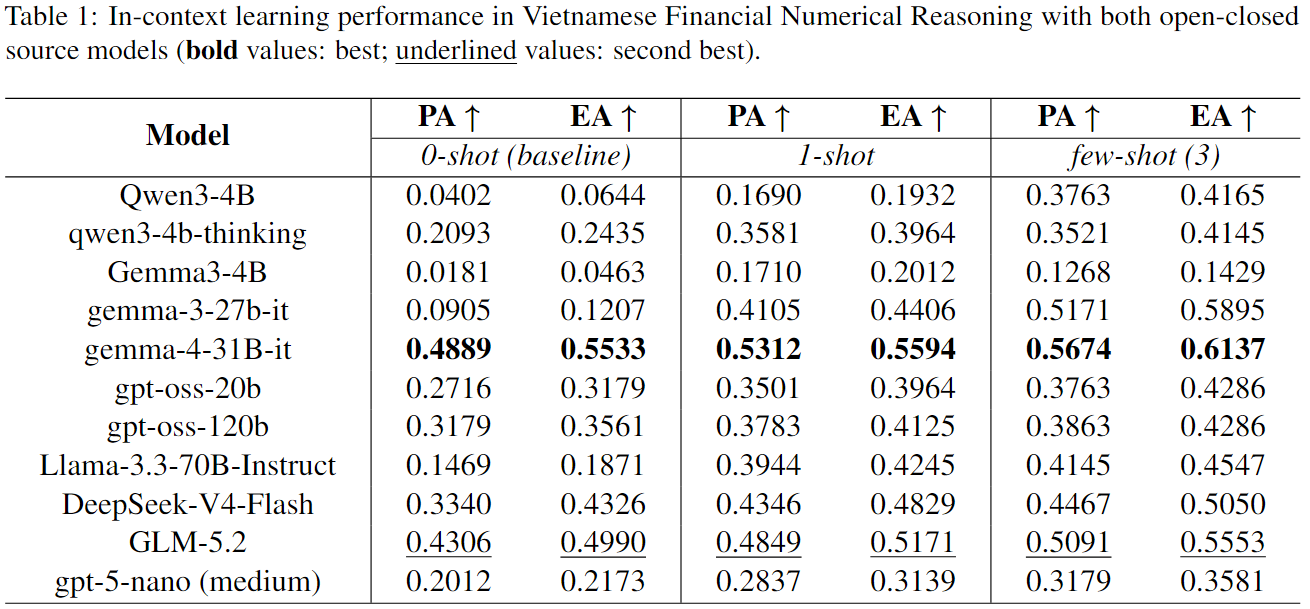
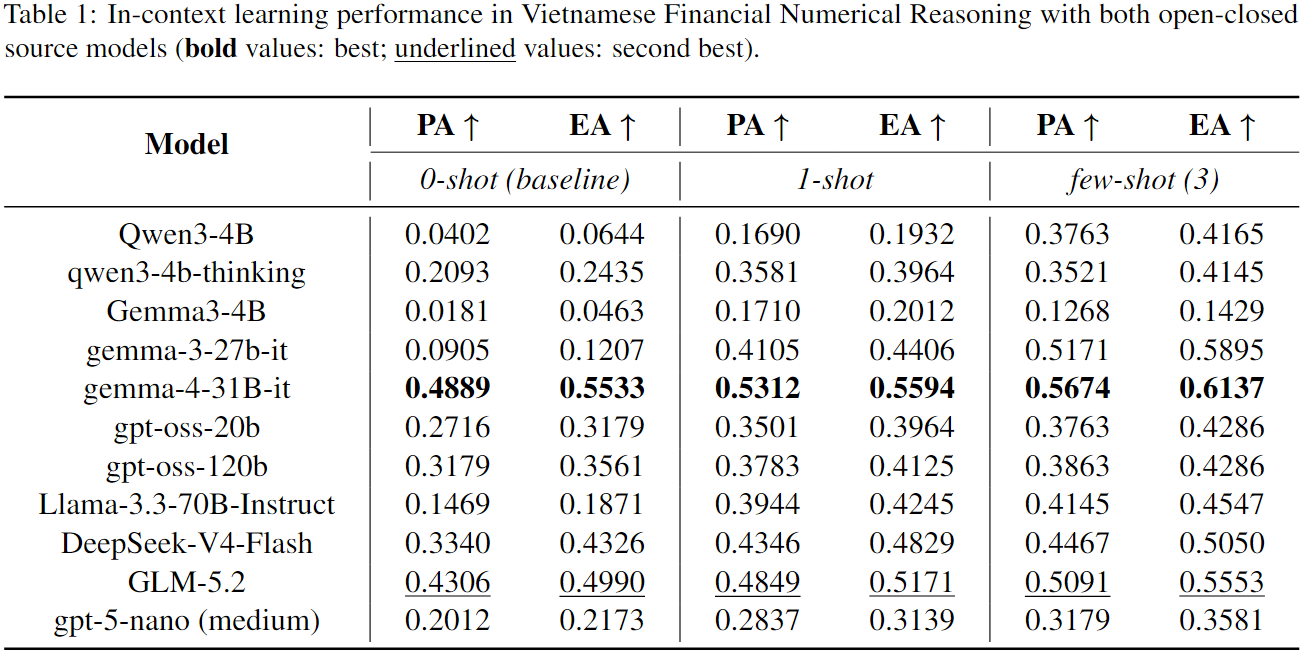
Update results images and resize in README
Refreshed img/in-context-learning.png and img/sft.png with updated LaTeX
table renders, and adjusted the display width in README.md.

Changed region(s): [[0.0, 0.0, 1.0, 0.9984], [0.7657, 0.8112, 0.8576, 0.8424]]

diff --git a/README.md b/README.md
@@ -41,12 +41,12 @@ distillation variants used across the SFT experiments below — **see
 file-by-file breakdown** (sample counts, distillation method, language,
 filter). Quick orientation:
 
-| File | Samples | Notes |
-|---|---|---|
-| `train.json` | 2,993 | gold `program` + `exe_ans`, no reasoning trace |
-| `valid.json` | 584 | gold `program` + `exe_ans`, no reasoning trace |
-| `test.json` | 497 | public test set, gold provided — **fixed evaluation set for every result below** |
-| `private_test.json` | 1,625 | **no gold** — held out for leaderboard scoring |
+| File                                     | Samples   | Notes                                                                                              |
+| ---------------------------------------- | --------- | -------------------------------------------------------------------------------------------------- |
+| `train.json`                             | 2,993     | gold `program` + `exe_ans`, no reasoning trace                                                     |
+| `valid.json`                             | 584       | gold `program` + `exe_ans`, no reasoning trace                                                     |
+| `test.json`                              | 497       | public test set, gold provided — **fixed evaluation set for every result below**                   |
+| `private_test.json`                      | 1,625     | **no gold** — held out for leaderboard scoring                                                     |
 | `*_with_reasoning_trace*.json` (8 files) | 450–2,993 | distilled `qa.reasoning_trace` variants — see the dataset README for which one backs which SFT row |
 
 Each entry: `{pre_text, table, post_text, id, qa: {question, program, exe_ans}}`.
@@ -134,6 +134,7 @@ counts over the gold programs) raised exact-match from 14.4% to 62.8%/63.4%
 either a strict surface-normalized check or sympy-based PA equivalence
 (`notebooks/evaluate/scorer.py`) — two complementary, non-redundant tests.
 Two filter strictness levels are shipped:
+
 - **PA match only** — the stricter filter, fewest samples.
 - **PA + partial match** — also accepts numeric-surface-form differences
   (`100` vs `100.00`) that PA alone rejects; a superset of PA-match-only.
@@ -165,7 +166,7 @@ Best in-context result so far: **gemma-4-31B-it, few-shot (3)** — PA 0.5674 / 
 
 ### Fine-tuned
 
-<img src="img/sft.png" alt="With supervised fine-tuning" width="550">
+<img src="img/sft.png" alt="With supervised fine-tuning" width="480">
 
 PA/EA are computed with the shared evaluator in `notebooks/evaluate/scorer.py`
 (sympy-based symbolic Program Accuracy, table-row-lookup-aware Execution
